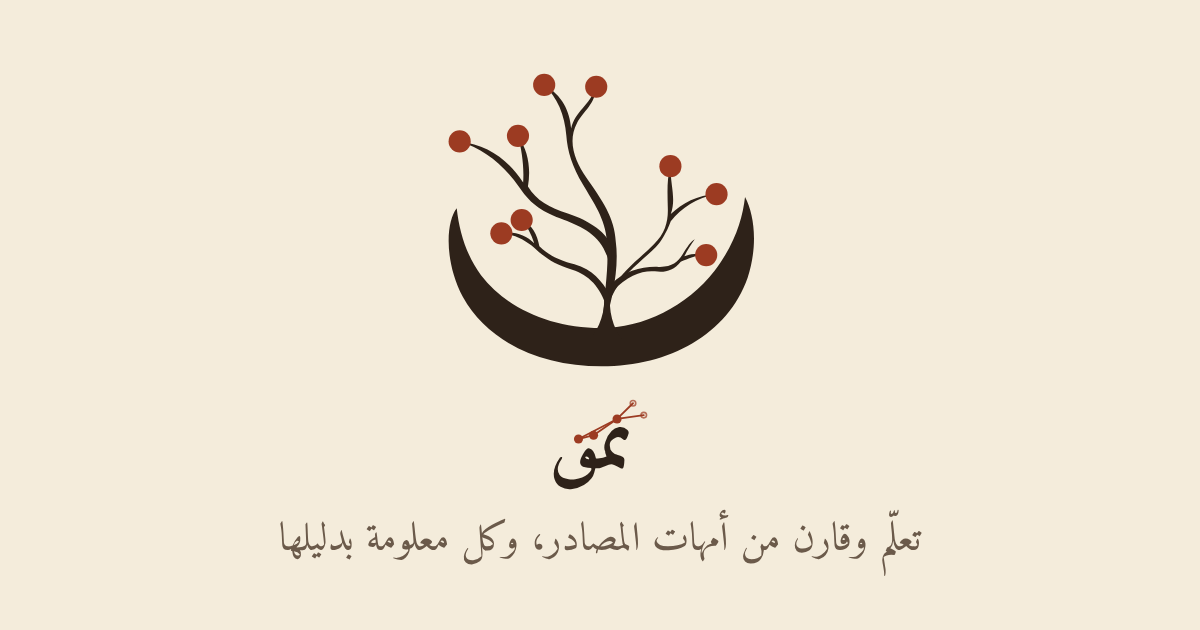
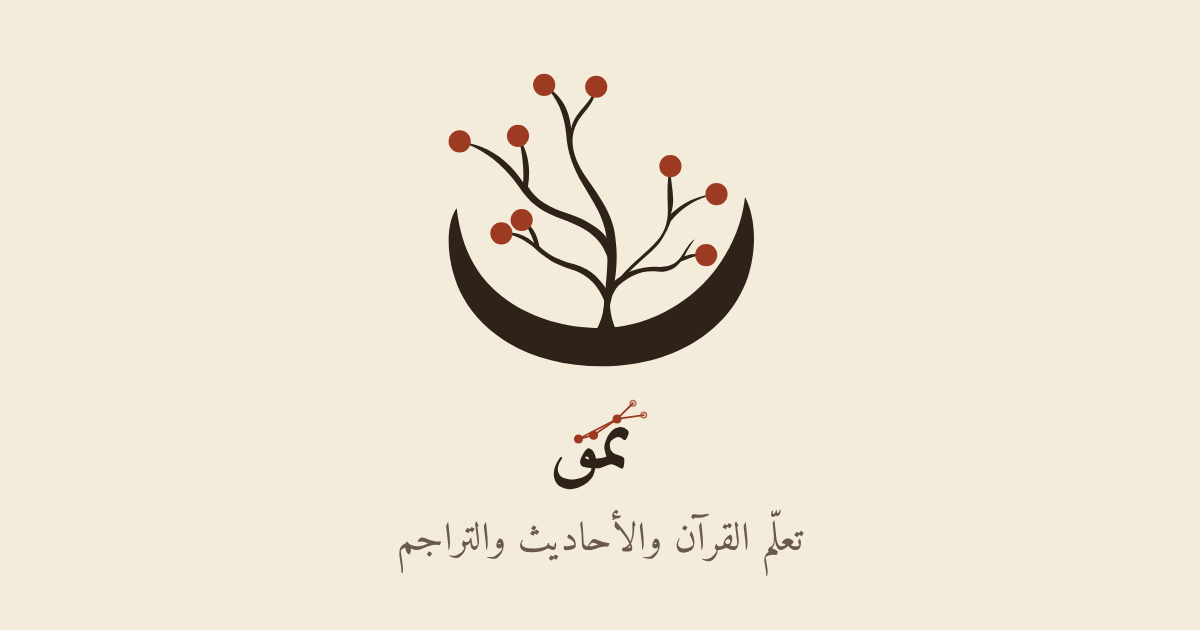
feat(brand): site description reads تعلّم القرآن والأحاديث والتراجم
Claude-Session: https://claude.ai/code/session_01JECtmoU79Ah1Nu53BP4dR9

Changed region(s): [[0.2158, 0.8143, 0.7708, 0.9048]]

diff --git a/src/lib/siteMeta.ts b/src/lib/siteMeta.ts
@@ -1,3 +1,3 @@
 export const SITE_NAME = 'نَمَق';
-export const SITE_DESCRIPTION = 'تعلّم وقارن من أمهات المصادر، وكل معلومة بدليلها';
+export const SITE_DESCRIPTION = 'تعلّم القرآن والأحاديث والتراجم';
 export const SITE_IMAGE = { url: '/opengraph-image.png', width: 1200, height: 630, alt: `${SITE_NAME}: ${SITE_DESCRIPTION}` };
